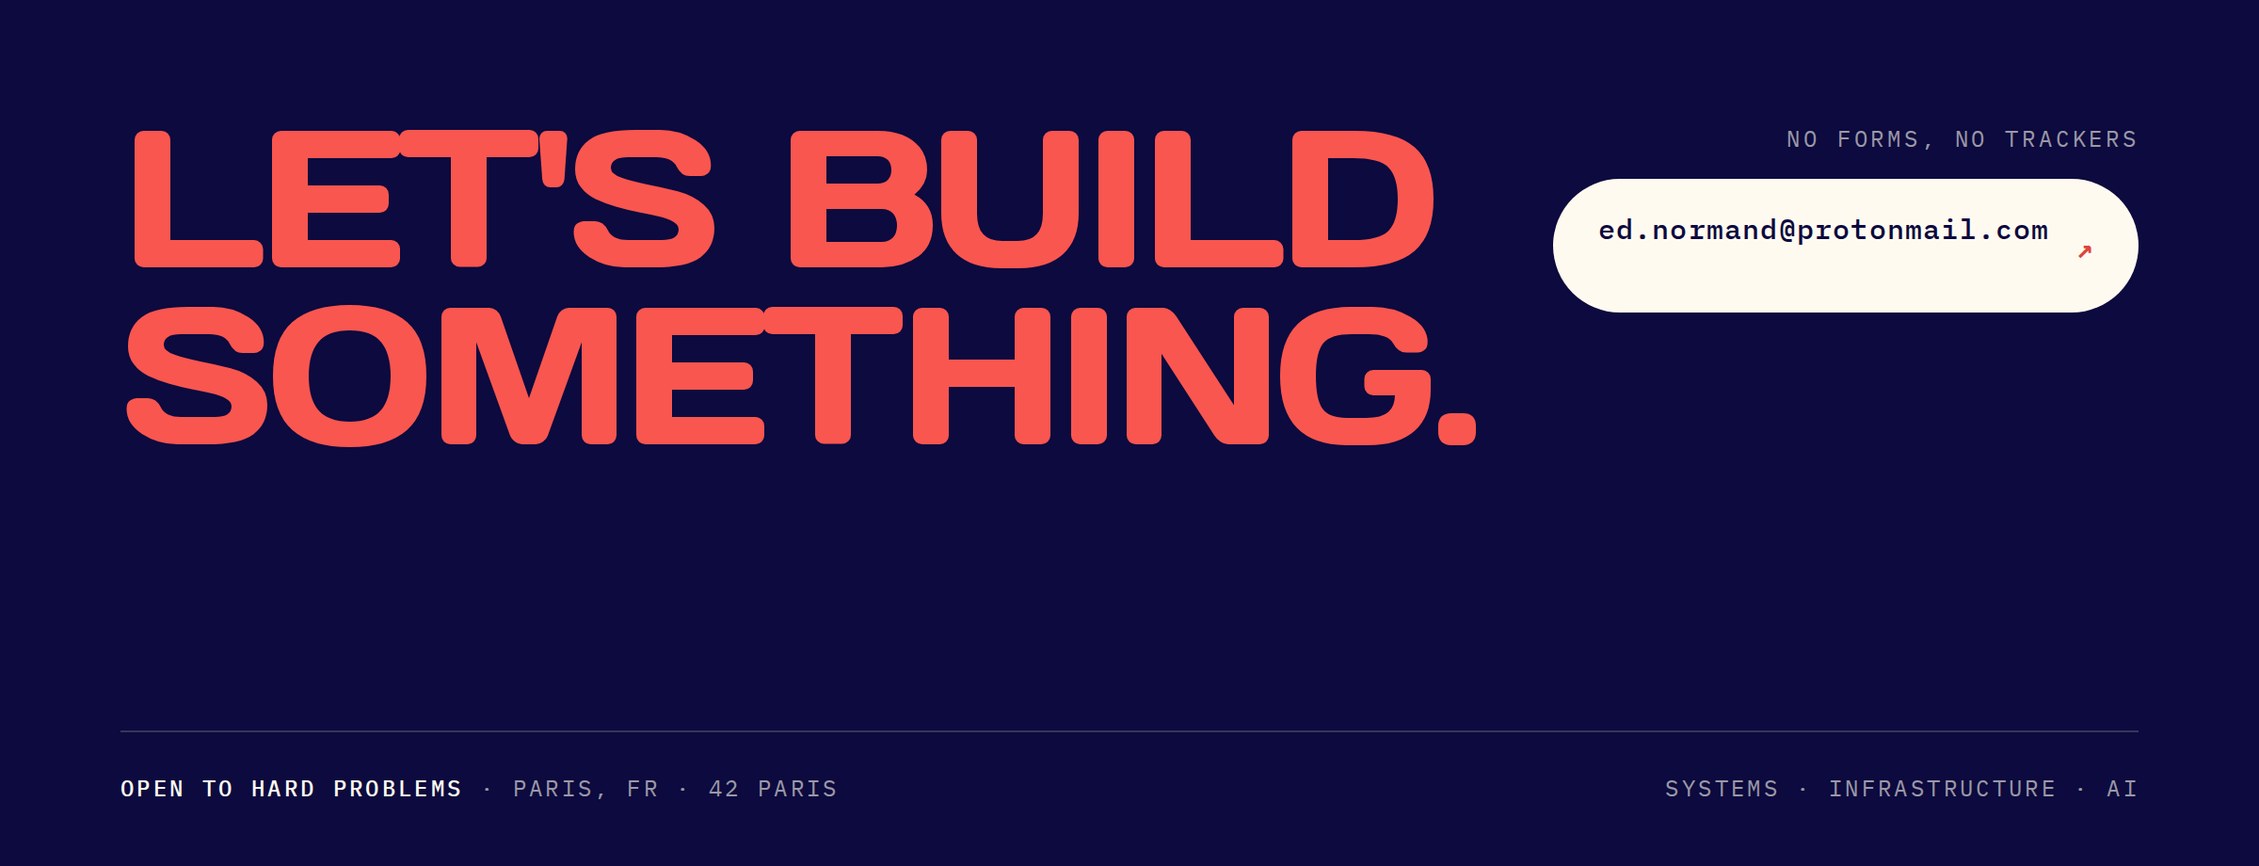
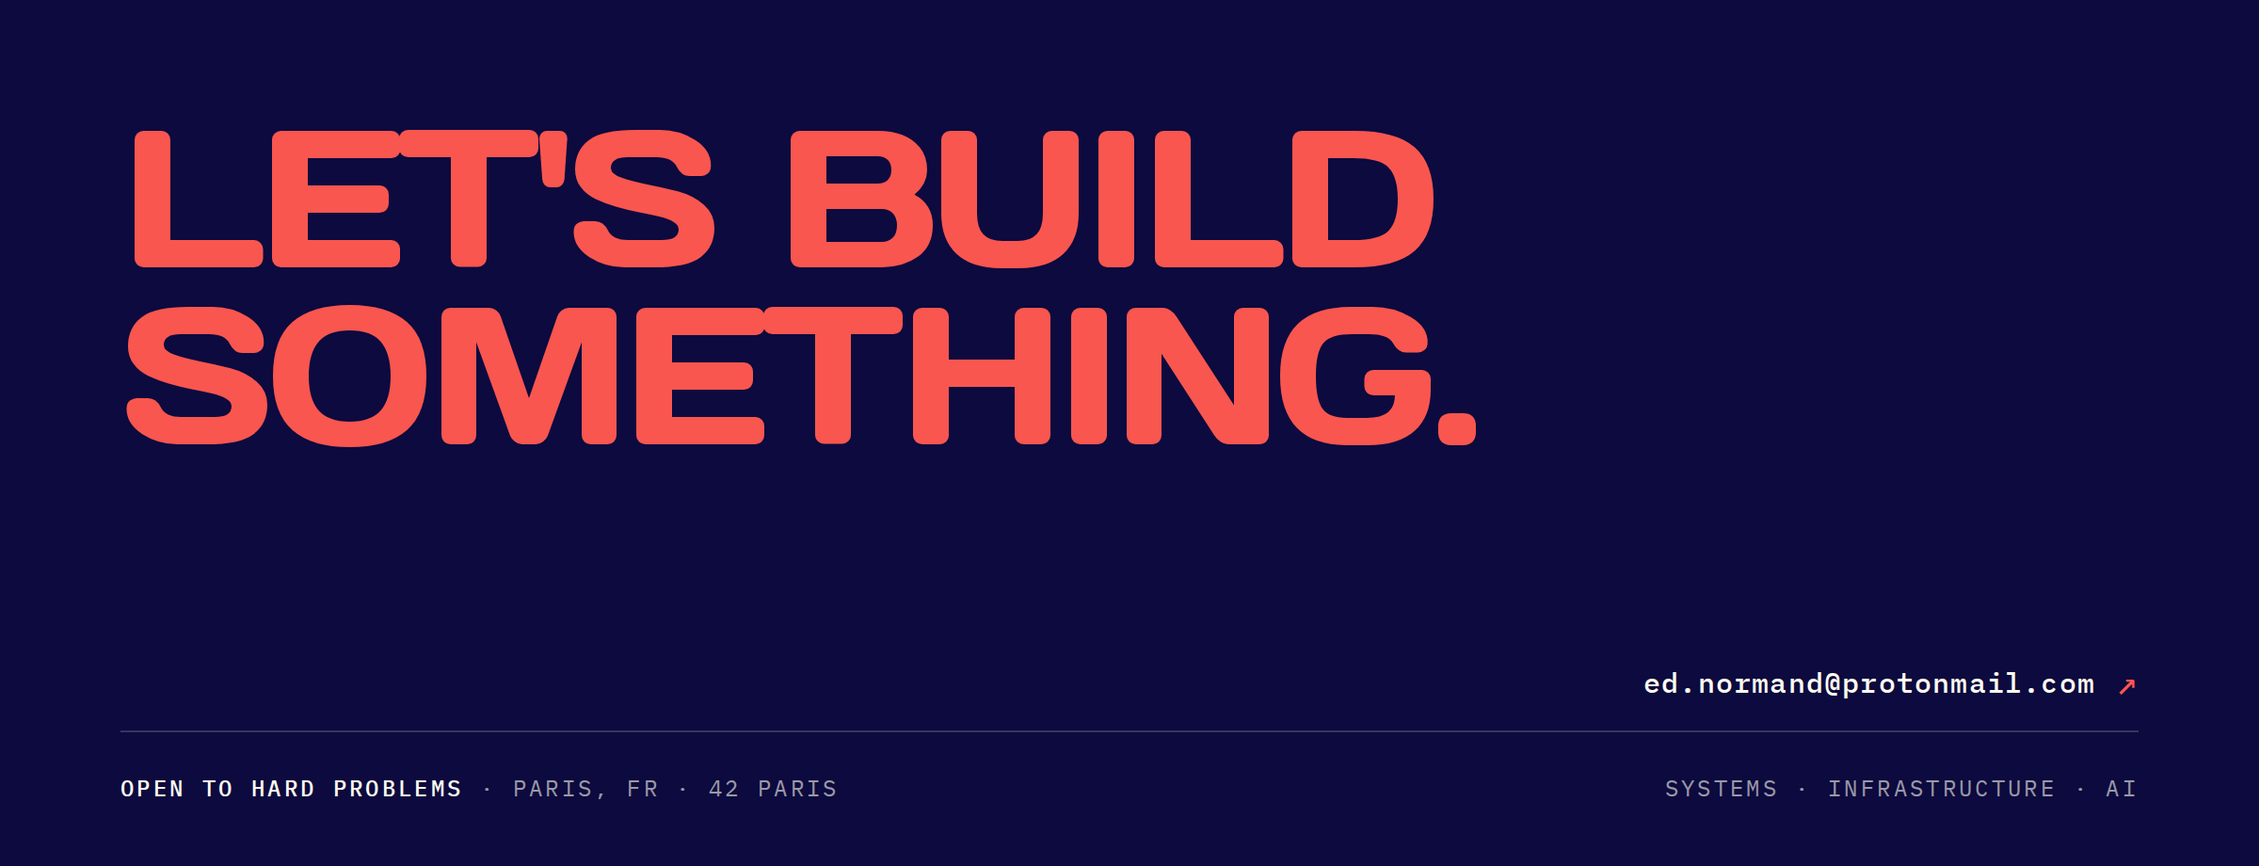
Move the email into the footer and drop the contact strip

diff --git a/assets/readme/prototype/boards.py b/assets/readme/prototype/boards.py
@@ -3,8 +3,8 @@
 
 The production boards in ``assets/readme/.build/00-header.html`` and
 ``07-footer.html`` are read, never written. The visible GitHub handle and URL
-are replaced with the email, a small amount of CSS keeps the longer address
-inside its column, and the result is screenshotted at 2x.
+are replaced with the email, the footer loses its CTA pill, and the email line
+moves just above the footer's own footline. The result is screenshotted at 2x.
 
     python3 assets/readme/prototype/boards.py
 """
@@ -24,12 +24,44 @@ HEADER_CSS = """
 """
 
 FOOTER_CSS = """
-.footer .cta .link { font-size: 15px; }
+.footer { grid-template-rows: 1fr auto auto; }
+.footer .contact {
+  display: flex;
+  align-items: center;
+  justify-content: flex-end;
+  gap: 11px;
+  padding: 0 0 16px;
+  font-size: 15px;
+  font-weight: 500;
+  letter-spacing: 0.04em;
+  color: #fffaf0;
+}
+.footer .contact .arrow { color: #f9564f; font-size: 19px; line-height: 1; }
+"""
+
+FOOTER_CTA = """    <div class="cta">
+      <span class="label">No forms, no trackers</span>
+      <span class="link">github.com/edouwarden &nbsp;<b>↗</b></span>
+    </div>
 """
 
 
-def variant(source: Path, name: str, height: int, css: str) -> str:
+def footer_transform(html: str) -> str:
+    """Drop the CTA pill and set the email directly over the footline."""
+    html = html.replace(FOOTER_CTA, "")
+    contact = (
+        '  <div class="contact">\n'
+        f'    <span class="mail">{EMAIL}</span>\n'
+        '    <span class="arrow">↗</span>\n'
+        "  </div>\n"
+    )
+    return html.replace('  <div class="footline">', contact + '  <div class="footline">')
+
+
+def variant(source: Path, name: str, height: int, css: str, transform=None) -> str:
     html = source.read_text()
+    if transform is not None:
+        html = transform(html)
     html = html.replace("@edouwarden", EMAIL)
     html = html.replace("github.com/edouwarden", EMAIL)
     html = html.replace("</style>", css + "</style>")
@@ -41,8 +73,8 @@ def variant(source: Path, name: str, height: int, css: str) -> str:
 
 def main() -> None:
     boards = (
-        ("header", BUILD / "00-header.html", HERE / "deck-header.png", 720, HEADER_CSS),
-        ("footer", BUILD / "07-footer.html", HERE / "deck-footer.png", 460, FOOTER_CSS),
+        ("header", BUILD / "00-header.html", HERE / "deck-header.png", 720, HEADER_CSS, None),
+        ("footer", BUILD / "07-footer.html", HERE / "deck-footer.png", 460, FOOTER_CSS, footer_transform),
     )
     with sync_playwright() as playwright:
         browser = playwright.chromium.launch()
@@ -50,8 +82,8 @@ def main() -> None:
             viewport={"width": 1200, "height": 720},
             device_scale_factor=2,
         )
-        for name, source, target, height, css in boards:
-            root = variant(source, name, height, css)
+        for name, source, target, height, css, transform in boards:
+            root = variant(source, name, height, css, transform)
             page.set_viewport_size({"width": 1200, "height": height})
             page.goto(Path(root).as_uri())
             page.wait_for_function("document.fonts.status === 'loaded'")

diff --git a/assets/readme/prototype/stats.py b/assets/readme/prototype/stats.py
@@ -1,7 +1,7 @@
 #!/usr/bin/env python3
 """Render the data rails that sit around the project plates: the stack
-marquee, the language line, the project-section header, the try-it strip,
-the peer-review cards and the contact line.
+marquee, the language line, the project-section header, the try-it strip and
+the peer-review cards.
 
 The stack is a vector marquee: 24 coral icons over two full-width rows that
 scroll slowly in opposite directions under a re-added title. The names are the
@@ -85,7 +85,6 @@ SPEED = 62.0  # marquee units per second
 PROJECTS_W, PROJECTS_H = 900, 112
 TRY_W, TRY_H = 900, 44
 REVIEWS_W = 900
-CONTACT_W, CONTACT_H = 900, 63
 
 # Placeholder copy for the mockup. Replace with real reviews before publishing.
 REVIEWS = (
@@ -194,13 +193,6 @@ def subline(text: str, x: float, baseline: float) -> str:
     return (
         f'<path d="{text_path(text, 9.5, 1.14, x, baseline)}" '
         f'fill="{PAPER}" fill-opacity="0.36"/>'
-    )
-
-
-def hairline(x1: float, y: float, x2: float, opacity: float = 0.09) -> str:
-    return (
-        f'<line x1="{x1}" y1="{y}" x2="{x2}" y2="{y}" '
-        f'stroke="{PAPER}" stroke-opacity="{opacity}"/>'
     )
 
 
@@ -397,27 +389,6 @@ def try_svg() -> str:
         'values="0 0;4 0;0 0" dur="2.8s" repeatCount="indefinite"/>'
         f'{arrow_path(arrow_x, centre)}</g>'
     )
-    out.append("</svg>")
-    return "".join(out)
-
-
-def contact_svg() -> str:
-    out = [svg_open(CONTACT_W, CONTACT_H, "Contact")]
-    out.append(f'<rect x="{MARGIN}" y="18" width="9" height="9" fill="{CORAL}"/>')
-    out.append(kicker("CONTACT", "EMAIL", MARGIN + 19, 28.5))
-    out.append(subline("DIRECT LINE", MARGIN + 19, 45))
-
-    email = "ed.normand@protonmail.com"
-    size, track = 10.5, 0.7
-    email_w = text_width(email, size, track)
-    right = CONTACT_W - MARGIN
-    start = right - email_w - 10 - 10
-    out.append(
-        f'<path d="{text_path(email, size, track, start, 35.5)}" '
-        f'fill="{PAPER}" fill-opacity="0.82"/>'
-    )
-    out.append(arrow_path(start + email_w + 10, 31.5))
-    out.append(hairline(360, 31.5, start - 28))
     out.append("</svg>")
     return "".join(out)
 
@@ -625,7 +596,6 @@ def main() -> None:
     write_rail("deck-projects.svg", projects_svg())
     write_rail("deck-try.svg", try_svg())
     write_rail("deck-reviews.svg", reviews_svg())
-    write_rail("deck-contact.svg", contact_svg())
     with sync_playwright() as playwright:
         browser = playwright.chromium.launch()
         page = browser.new_page(

diff --git a/README.md b/README.md
@@ -1,3 +1,3 @@
-<!-- Private review: the full image-only deck with a custom flat illustration on every project card. A live stack strip, a language line and a project-section header sit between the header and the plates; Forge closes the work section as an outlined in-progress card. A thin try-it strip follows the dashboard card, and a peer-review marquee plus a contact line close the deck. The Space card shows the seeded height field and core sample; born2beroot shows a VM window on a hypervisor host. The public profile is untouched. -->
+<!-- Private review: the full image-only deck with a custom flat illustration on every project card. A live stack strip, a language line and a project-section header sit between the header and the plates; Forge closes the work section as an outlined in-progress card. A thin try-it strip follows the dashboard card, a peer-review marquee closes the work section, and the footer carries the email line. The Space card shows the seeded height field and core sample; born2beroot shows a VM window on a hypervisor host. The public profile is untouched. -->
 
-<p align="center"><a href="mailto:ed.normand@protonmail.com" title="Email Edouard Normand"><img align="top" src="assets/readme/prototype/deck-header.png" width="100%" alt="Edouard Normand — software engineer at 42 Paris. I build systems end to end: bare metal, networks, engines, and AI agents. 13 years coding, 2,000+ players served, 214 peer reviews, €0 infra bill. Email ed.normand@protonmail.com."></a><a href="mailto:ed.normand@protonmail.com" title="Email Edouard Normand"><img align="top" src="assets/readme/prototype/deck-stack.svg" width="100%" alt="Stack used across the deck: Bun, Hono, SQLite, OpenCode, Next.js, Three.js, Rapier, Spigot, llama.cpp, PostgreSQL, Tailscale, Cloudflare, C, C++, Go, Docker, NGINX, Debian, LUKS, LVM, Vault, nftables, Suricata and Firecracker, in two rows scrolling slowly in opposite directions."></a><a href="mailto:ed.normand@protonmail.com" title="Email Edouard Normand"><img align="top" src="assets/readme/prototype/deck-languages.png" width="100%" alt="Languages, most used first, with their share of 66,521 counted lines: TypeScript 39.2%, JavaScript 22.5%, Python 17.3%, C 7.8%, Java 7.5%, Go 4.0% and Bash 1.7%."></a><a href="mailto:ed.normand@protonmail.com" title="Email Edouard Normand"><img align="top" src="assets/readme/prototype/deck-projects.svg" width="100%" alt="Projects: selected work. Eight shipped, one in progress, plates 01 to 09."></a><a href="https://github.com/edouwarden/dynamic-dashboard" title="dynamic-dashboard"><img align="top" src="assets/readme/prototype/plate-01.png" width="100%" alt="01 dynamic-dashboard, 2026, solo product and full stack: a local-first dashboard builder with isolated HTML widgets on one SQLite database, edited by an agent; 28 starter widgets, 6 example tabs, 1 shared DB; Bun, Hono, SQLite, Vanilla JS, OpenCode. Opens the repository."></a><a href="https://dynamic-dashboard.ednormand.fr/" title="Try dynamic-dashboard"><img align="top" src="assets/readme/prototype/deck-try.svg" width="100%" alt="Try it now: dynamic-dashboard at dynamic-dashboard.ednormand.fr. No signup, fictional data."></a><a href="https://github.com/edouwarden/Transcendence-WebGameEngine" title="ft_transcendence"><img align="top" src="assets/readme/prototype/plate-02.png" width="100%" alt="02 ft_transcendence, 2026, team of four, engine and platform: a browser game engine on Three.js with World, Environment and Module layers, physics, editors and live tools, running a parkour arena; 4 engine layers, 4 course maps, 20 Hz net tick; Next.js, Three.js, Rapier, Bun, Go, PostgreSQL. Opens the repository."></a><a href="https://github.com/edouwarden/space-gameserver-2019-psr" title="space-gameserver"><img align="top" src="assets/readme/prototype/plate-03.png" width="100%" alt="03 space-gameserver, 2019, solo, systems and geometry: a Spigot sandbox whose space and exoplanet terrain comes from a seeded six-octave height field sampled into a core column, ships on an 11 by 11 orbital grid, and five weapon systems as closed-form geometry; 2,000+ members, 5 powers, 11 by 11 orbital slots; Java 8, Paper 1.14.4, WorldEdit, WorldGuard, Python. Opens the repository."></a><a href="https://github.com/edouwarden/minishell" title="minishell"><img align="top" src="assets/readme/prototype/plate-04.png" width="100%" alt="04 minishell, 2025, pair, systems and parsing: a Unix shell with quote-aware lexing, expansion, heredocs and 64-stage pipelines, readline only; 3,000 lines of C, 64 pipe stages, 0 zombies; C99, POSIX, fork and exec, dup2, readline. Opens the repository."></a><a href="https://github.com/edouwarden/cube3D" title="cub3D"><img align="top" src="assets/readme/prototype/plate-05.png" width="100%" alt="05 cub3D, 2025, pair, rendering and math: a hand-written raycast renderer with 640 rays per frame, textured walls floor to ceiling and every pixel written into an X11 buffer without a GPU; 640 rays per frame, 3 showcase maps, about 60 fps cap; C99, X11, raycasting, XPM, math. Opens the repository."></a><a href="https://github.com/edouwarden/irc" title="ft_irc"><img align="top" src="assets/readme/prototype/plate-06.png" width="100%" alt="06 ft_irc, 2026, pair, protocols and systems: an IRC server on one thread and one poll loop with buffered TCP framing, channel modes and a local Phi-3 answering in #ai-lab; 1 thread, 1 poll loop, 3.8B local model; C++98, sockets, poll, llama.cpp. Opens the repository."></a><a href="https://github.com/edouwarden/inception" title="Inception"><img align="top" src="assets/readme/prototype/plate-07.png" width="100%" alt="07 Inception, 2026, solo, containers and infrastructure: a WordPress stack where every part is a container, nginx holds TLS, PHP-FPM runs WordPress and MariaDB never leaves the compose network; 3 services, 1 open port, 4 secrets; Docker Compose, NGINX, WordPress, MariaDB, TLS. Opens the repository."></a><a href="https://github.com/edouwarden/born2beroot" title="born2beroot"><img align="top" src="assets/readme/prototype/plate-08.png" width="100%" alt="08 born2beroot, 2024, solo, systems and hardening: a reproducible Debian VM running in a guest window on a VirtualBox host, built from a self-made ISO with LUKS under LVM, six filesystems, SSH on port 4242 and every sudo logged; 7 volumes, 1 open port, wall broadcast every 10 minutes; Debian, LUKS, LVM, UFW, systemd. Opens the repository."></a><a href="https://github.com/edouwarden?tab=repositories" title="Forge — in progress"><img align="top" src="assets/readme/prototype/plate-09.png" width="100%" alt="09 Forge, 2026, solo, systems and tooling, in progress: a workshop for building, running and keeping software on one machine, published in parts; 2026 start, 1 project, work in progress; Bun, TypeScript, SQLite, Docker, Linux. Opens the repositories."></a><!-- Mock peer-review quotes: replace REVIEWS in stats.py before publishing. --><img align="top" src="assets/readme/prototype/deck-reviews.svg" width="100%" alt="Peer review placeholder: three quotes from 42 Paris, scrolling slowly."><a href="mailto:ed.normand@protonmail.com" title="Email Edouard Normand"><img align="top" src="assets/readme/prototype/deck-footer.png" width="100%" alt="Let's build something. Open to hard problems in Paris, France. Email ed.normand@protonmail.com."></a><a href="mailto:ed.normand@protonmail.com" title="Email Edouard Normand"><img align="top" src="assets/readme/prototype/deck-contact.svg" width="100%" alt="Contact Edouard Normand at ed.normand@protonmail.com."></a></p>
+<p align="center"><a href="mailto:ed.normand@protonmail.com" title="Email Edouard Normand"><img align="top" src="assets/readme/prototype/deck-header.png" width="100%" alt="Edouard Normand — software engineer at 42 Paris. I build systems end to end: bare metal, networks, engines, and AI agents. 13 years coding, 2,000+ players served, 214 peer reviews, €0 infra bill. Email ed.normand@protonmail.com."></a><a href="mailto:ed.normand@protonmail.com" title="Email Edouard Normand"><img align="top" src="assets/readme/prototype/deck-stack.svg" width="100%" alt="Stack used across the deck: Bun, Hono, SQLite, OpenCode, Next.js, Three.js, Rapier, Spigot, llama.cpp, PostgreSQL, Tailscale, Cloudflare, C, C++, Go, Docker, NGINX, Debian, LUKS, LVM, Vault, nftables, Suricata and Firecracker, in two rows scrolling slowly in opposite directions."></a><a href="mailto:ed.normand@protonmail.com" title="Email Edouard Normand"><img align="top" src="assets/readme/prototype/deck-languages.png" width="100%" alt="Languages, most used first, with their share of 66,521 counted lines: TypeScript 39.2%, JavaScript 22.5%, Python 17.3%, C 7.8%, Java 7.5%, Go 4.0% and Bash 1.7%."></a><a href="mailto:ed.normand@protonmail.com" title="Email Edouard Normand"><img align="top" src="assets/readme/prototype/deck-projects.svg" width="100%" alt="Projects: selected work. Eight shipped, one in progress, plates 01 to 09."></a><a href="https://github.com/edouwarden/dynamic-dashboard" title="dynamic-dashboard"><img align="top" src="assets/readme/prototype/plate-01.png" width="100%" alt="01 dynamic-dashboard, 2026, solo product and full stack: a local-first dashboard builder with isolated HTML widgets on one SQLite database, edited by an agent; 28 starter widgets, 6 example tabs, 1 shared DB; Bun, Hono, SQLite, Vanilla JS, OpenCode. Opens the repository."></a><a href="https://dynamic-dashboard.ednormand.fr/" title="Try dynamic-dashboard"><img align="top" src="assets/readme/prototype/deck-try.svg" width="100%" alt="Try it now: dynamic-dashboard at dynamic-dashboard.ednormand.fr. No signup, fictional data."></a><a href="https://github.com/edouwarden/Transcendence-WebGameEngine" title="ft_transcendence"><img align="top" src="assets/readme/prototype/plate-02.png" width="100%" alt="02 ft_transcendence, 2026, team of four, engine and platform: a browser game engine on Three.js with World, Environment and Module layers, physics, editors and live tools, running a parkour arena; 4 engine layers, 4 course maps, 20 Hz net tick; Next.js, Three.js, Rapier, Bun, Go, PostgreSQL. Opens the repository."></a><a href="https://github.com/edouwarden/space-gameserver-2019-psr" title="space-gameserver"><img align="top" src="assets/readme/prototype/plate-03.png" width="100%" alt="03 space-gameserver, 2019, solo, systems and geometry: a Spigot sandbox whose space and exoplanet terrain comes from a seeded six-octave height field sampled into a core column, ships on an 11 by 11 orbital grid, and five weapon systems as closed-form geometry; 2,000+ members, 5 powers, 11 by 11 orbital slots; Java 8, Paper 1.14.4, WorldEdit, WorldGuard, Python. Opens the repository."></a><a href="https://github.com/edouwarden/minishell" title="minishell"><img align="top" src="assets/readme/prototype/plate-04.png" width="100%" alt="04 minishell, 2025, pair, systems and parsing: a Unix shell with quote-aware lexing, expansion, heredocs and 64-stage pipelines, readline only; 3,000 lines of C, 64 pipe stages, 0 zombies; C99, POSIX, fork and exec, dup2, readline. Opens the repository."></a><a href="https://github.com/edouwarden/cube3D" title="cub3D"><img align="top" src="assets/readme/prototype/plate-05.png" width="100%" alt="05 cub3D, 2025, pair, rendering and math: a hand-written raycast renderer with 640 rays per frame, textured walls floor to ceiling and every pixel written into an X11 buffer without a GPU; 640 rays per frame, 3 showcase maps, about 60 fps cap; C99, X11, raycasting, XPM, math. Opens the repository."></a><a href="https://github.com/edouwarden/irc" title="ft_irc"><img align="top" src="assets/readme/prototype/plate-06.png" width="100%" alt="06 ft_irc, 2026, pair, protocols and systems: an IRC server on one thread and one poll loop with buffered TCP framing, channel modes and a local Phi-3 answering in #ai-lab; 1 thread, 1 poll loop, 3.8B local model; C++98, sockets, poll, llama.cpp. Opens the repository."></a><a href="https://github.com/edouwarden/inception" title="Inception"><img align="top" src="assets/readme/prototype/plate-07.png" width="100%" alt="07 Inception, 2026, solo, containers and infrastructure: a WordPress stack where every part is a container, nginx holds TLS, PHP-FPM runs WordPress and MariaDB never leaves the compose network; 3 services, 1 open port, 4 secrets; Docker Compose, NGINX, WordPress, MariaDB, TLS. Opens the repository."></a><a href="https://github.com/edouwarden/born2beroot" title="born2beroot"><img align="top" src="assets/readme/prototype/plate-08.png" width="100%" alt="08 born2beroot, 2024, solo, systems and hardening: a reproducible Debian VM running in a guest window on a VirtualBox host, built from a self-made ISO with LUKS under LVM, six filesystems, SSH on port 4242 and every sudo logged; 7 volumes, 1 open port, wall broadcast every 10 minutes; Debian, LUKS, LVM, UFW, systemd. Opens the repository."></a><a href="https://github.com/edouwarden?tab=repositories" title="Forge — in progress"><img align="top" src="assets/readme/prototype/plate-09.png" width="100%" alt="09 Forge, 2026, solo, systems and tooling, in progress: a workshop for building, running and keeping software on one machine, published in parts; 2026 start, 1 project, work in progress; Bun, TypeScript, SQLite, Docker, Linux. Opens the repositories."></a><!-- Mock peer-review quotes: replace REVIEWS in stats.py before publishing. --><img align="top" src="assets/readme/prototype/deck-reviews.svg" width="100%" alt="Peer review placeholder: three quotes from 42 Paris, scrolling slowly."><a href="mailto:ed.normand@protonmail.com" title="Email Edouard Normand"><img align="top" src="assets/readme/prototype/deck-footer.png" width="100%" alt="Let's build something. Open to hard problems in Paris, France. Email ed.normand@protonmail.com."></a></p>

diff --git a/assets/readme/prototype/README.md b/assets/readme/prototype/README.md
@@ -45,11 +45,12 @@ space, marks and cards rather than full-width rules:
   `Peer / Reviews` title. Each quote wraps into a card, and the section grows with
   the longest quote. The three quotes in `stats.py` are mock placeholders;
   replace `REVIEWS` with real quotes before publishing.
-- `deck-contact.svg` — the closing email line, `ed.normand@protonmail.com`.
 - `deck-header.png`, `deck-footer.png` — prototype copies of the profile header
   and footer with `ed.normand@protonmail.com` in place of the visible GitHub
-  handle and URL. `boards.py` reads the production boards, replaces the copy and
-  screenshots the variants at 2x; the production boards are not modified.
+  handle and URL. The footer drops the `No forms, no trackers` label and the CTA
+  pill; the email with its coral arrow sits directly above the footline.
+  `boards.py` reads the production boards, replaces the copy and screenshots the
+  variants at 2x; the production boards are not modified.
 
 ## What each project leads with
 
@@ -79,9 +80,9 @@ public numbers exist; the card currently opens the repositories tab.
   HTML goes to the ignored `.build/` folder.
 - `plate-01.png`, `plate-02.png`, `plate-03.png`, `plate-04.png` … `plate-09.png`
   — the rendered plates.
-- `stats.py` — writes the stack, project-section, try-it, review and contact
-  rails as SVG and renders the language line at 2x. HTML goes to the ignored
-  `.build/` folder.
+- `stats.py` — writes the stack, project-section, try-it and review rails as SVG
+  and renders the language line at 2x. HTML goes to the ignored `.build/`
+  folder.
 - `boards.py` — reads the production header and footer boards and renders
   `deck-header.png` and `deck-footer.png` with the email in place of the visible
   GitHub copy. HTML goes to the ignored `.build/` folder.
@@ -89,8 +90,8 @@ public numbers exist; the card currently opens the repositories tab.
 - `tech-icons-generic.json` — solid glyphs for the tools that are not brands.
 - `loc.json` — the pygount snapshot: total, per-language lines, and exclusions.
 - `deck-stack.svg`, `deck-languages.png`, `deck-projects.svg`, `deck-try.svg`,
-  `deck-reviews.svg`, `deck-contact.svg`, `deck-header.png`, `deck-footer.png` —
-  the rendered data rails and board variants.
+  `deck-reviews.svg`, `deck-header.png`, `deck-footer.png` — the rendered data
+  rails and board variants.
 
 ```bash
 python3 assets/readme/prototype/plates.py
